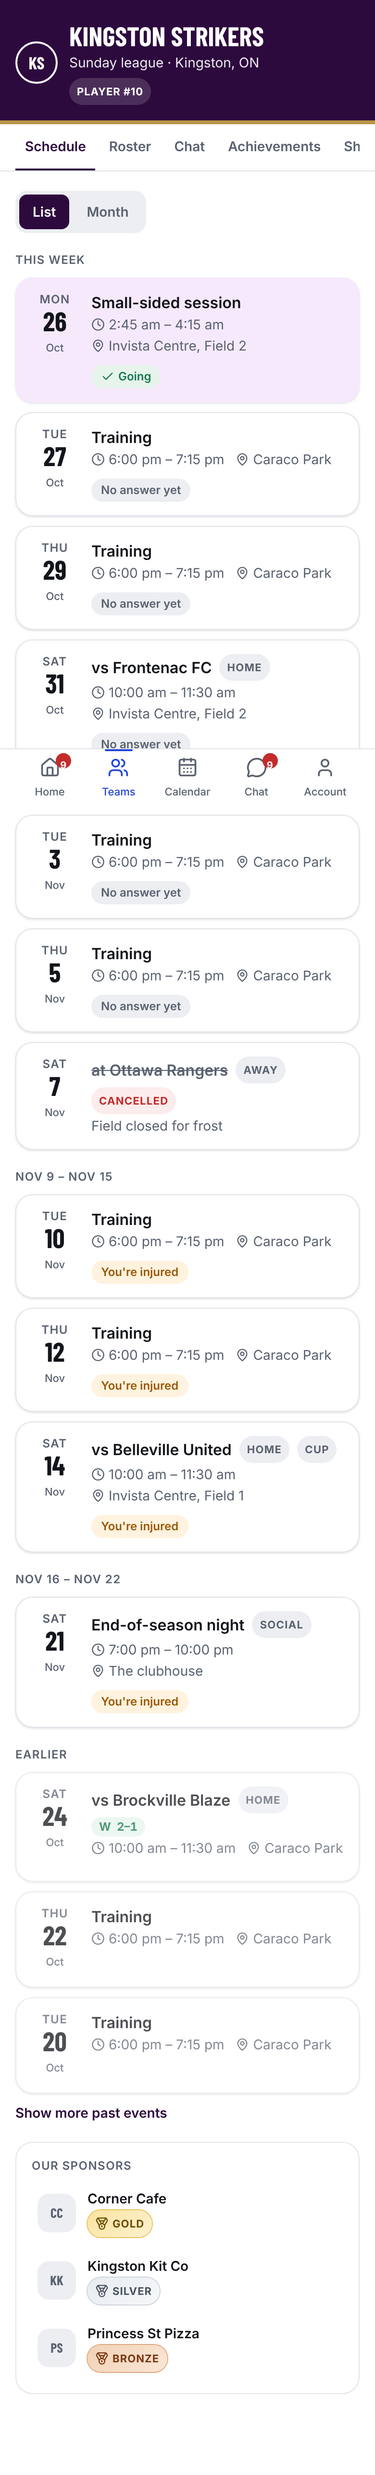
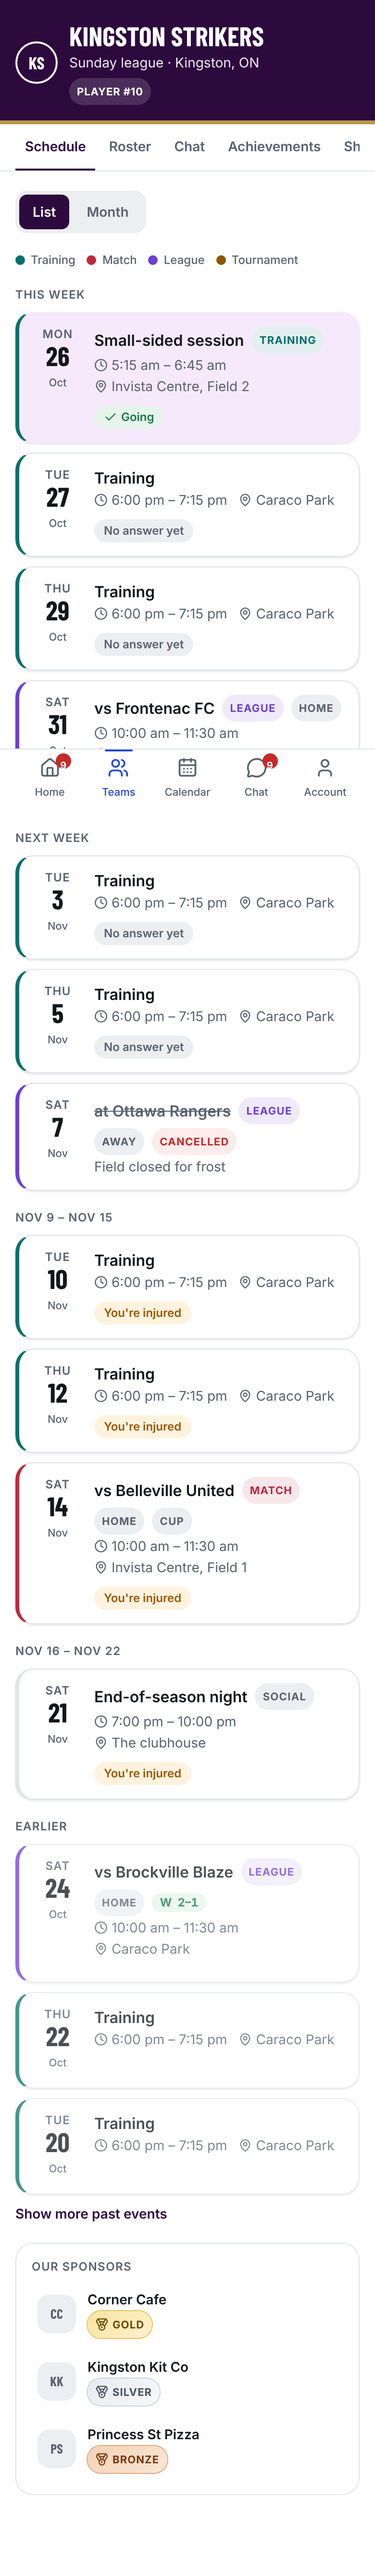
Colour events by kind: training, match, league, tournament (stripe, label, month dots, colour key)
Claude-Session: https://claude.ai/code/session_01ErGsB6M5fXQxgMj1xA9MPR

diff --git a/src/components/event-bits.tsx b/src/components/event-bits.tsx
@@ -29,15 +29,43 @@ export function StatusBadge({ status }: { status: TeamEvent["status"] | "live" |
   );
 }
 
-export function TypeTag({ e }: { e: Pick<TeamEvent, "type" | "homeAway" | "competition"> }) {
+/*
+ * Every event has a colour by kind, so a list is easy to scan: training, matches, league
+ * matches and tournaments (the tournament itself and its games). Socials and others stay neutral.
+ */
+export type EventKind = "training" | "match" | "league" | "tournament";
+type KindSource = Pick<TeamEvent, "type" | "competition"> & { tournamentId?: string | null };
+export function eventKind(e: KindSource): EventKind | null {
+  if (e.tournamentId || e.type === "tournament") return "tournament";
+  if (e.type === "match") return e.competition === "league" ? "league" : "match";
+  if (e.type === "training") return "training";
+  return null;
+}
+export const KIND_LABEL: Record<EventKind, string> = { training: "Training", match: "Match", league: "League", tournament: "Tournament" };
+// Whole class names, so Tailwind sees them.
+export const KIND_STRIPE: Record<EventKind, string> = { training: "border-l-ev-training", match: "border-l-ev-match", league: "border-l-ev-league", tournament: "border-l-ev-tournament" };
+export const KIND_CHIP: Record<EventKind, string> = {
+  training: "bg-ev-training-soft text-ev-training",
+  match: "bg-ev-match-soft text-ev-match",
+  league: "bg-ev-league-soft text-ev-league",
+  tournament: "bg-ev-tournament-soft text-ev-tournament",
+};
+export const KIND_DOT: Record<EventKind, string> = { training: "bg-ev-training", match: "bg-ev-match", league: "bg-ev-league", tournament: "bg-ev-tournament" };
+
+export function TypeTag({ e, title }: { e: KindSource & Pick<TeamEvent, "homeAway">; title?: string }) {
+  const k = eventKind(e);
+  // No "Training" chip on an event already called Training: the stripe shows the colour.
+  const kind = k && title?.trim().toLowerCase() === KIND_LABEL[k].toLowerCase() ? null : k;
   const labels: string[] = [];
   if (e.type === "match") labels.push(e.homeAway === "away" ? "Away" : e.homeAway === "neutral" ? "Neutral" : "Home");
-  if (e.competition && e.competition !== "league") labels.push(e.competition === "cup" ? "Cup" : "Friendly");
-  if (e.type === "tournament") labels.push("Tournament");
+  if (e.competition && e.competition !== "league" && kind !== "tournament") labels.push(e.competition === "cup" ? "Cup" : "Friendly");
   if (e.type === "social") labels.push("Social");
-  if (!labels.length) return null;
+  if (!labels.length && !kind) return null;
   return (
     <>
+      {kind && (
+        <span className={`rounded-pill px-2 py-0.5 text-[11px] font-bold tracking-[.06em] uppercase ${KIND_CHIP[kind]}`}>{KIND_LABEL[kind]}</span>
+      )}
       {labels.map((l) => (
         <span key={l} className="rounded-pill bg-sunken px-2 py-0.5 text-[11px] font-bold tracking-[.06em] text-muted uppercase">
           {l}
@@ -115,12 +143,13 @@ export function EventCard({ e, showTeam = false, tournament }: { e: EventWithMin
   const today = isToday(e.startAt, e.tz);
   const past = Date.parse(e.endAt) < Date.now();
   const mineLabel = e.mine ? (e.mine.response ? RSVP_LABEL[e.mine.response] : e.mine.unavailable ? "you're marked unavailable" : "no answer yet") : "";
+  const kind = eventKind(e);
   return (
     <Link
       href={`/t/${e.teamId}/e/${e.id}`}
       data-team={showTeam ? e.teamId : undefined}
-      aria-label={`${title}, ${d.dow} ${d.month} ${d.day}, ${formatTimeRange(e.startAt, e.endAt, e.tz)}${cancelled ? ", cancelled" : ""}${mineLabel ? ", " + mineLabel : ""}`}
-      className={`grid ${badge ? "grid-cols-[52px_minmax(0,1fr)_auto]" : "grid-cols-[52px_minmax(0,1fr)]"} gap-3 rounded-lg border p-3.5 shadow-card transition-colors hover:border-border-input focus-visible:outline-2 focus-visible:outline-offset-2 focus-visible:outline-focus ${
+      aria-label={`${title}${kind ? `, ${KIND_LABEL[kind]}` : ""}, ${d.dow} ${d.month} ${d.day}, ${formatTimeRange(e.startAt, e.endAt, e.tz)}${cancelled ? ", cancelled" : ""}${mineLabel ? ", " + mineLabel : ""}`}
+      className={`grid ${badge ? "grid-cols-[52px_minmax(0,1fr)_auto]" : "grid-cols-[52px_minmax(0,1fr)]"} gap-3 rounded-lg border border-l-4 p-3.5 shadow-card transition-colors ${kind ? KIND_STRIPE[kind] : ""} hover:border-border-input focus-visible:outline-2 focus-visible:outline-offset-2 focus-visible:outline-focus ${
         today && !cancelled ? "border-transparent bg-team-soft" : "border-border bg-bg"
       } ${past ? "opacity-75" : ""}`}
     >
@@ -134,7 +163,7 @@ export function EventCard({ e, showTeam = false, tournament }: { e: EventWithMin
           <h3 className={`min-w-0 text-base leading-[22px] font-semibold break-words ${cancelled ? "text-muted line-through" : ""}`}>
             {title}
           </h3>
-          <TypeTag e={e} />
+          <TypeTag e={e} title={title} />
           <StatusBadge status={e.status} />
           <ScoreBadge score={e.score} />
         </div>
@@ -206,6 +235,20 @@ export function Counts({ counts }: { counts: { going: number; maybe: number; not
       {items.map(([k, label, cls]) => (
         <li key={k} className={`rounded-pill px-3 py-1.5 text-sm font-semibold tabular ${cls}`}>
           {counts[k]} {label}
+        </li>
+      ))}
+    </ul>
+  );
+}
+
+/** What the colours mean, above a list or calendar. */
+export function KindLegend() {
+  return (
+    <ul aria-label="Event colours" className="flex flex-wrap gap-x-3 gap-y-1 text-xs text-muted">
+      {(Object.keys(KIND_LABEL) as EventKind[]).map((k) => (
+        <li key={k} className="inline-flex items-center gap-1.5">
+          <span aria-hidden className={`size-2.5 rounded-pill ${KIND_DOT[k]}`} />
+          {KIND_LABEL[k]}
         </li>
       ))}
     </ul>

diff --git a/replica/design/tokens.css b/replica/design/tokens.css
@@ -84,6 +84,14 @@
   --live: #C8261A;
   --on-live: #FFFFFF;
   --overlay: #0B0D11;
+  --ev-training: #08706B;
+  --ev-training-soft: #E4EFEF;
+  --ev-match: #C0283F;
+  --ev-match-soft: #F8E7EA;
+  --ev-league: #6D3FD6;
+  --ev-league-soft: #EFEAFA;
+  --ev-tournament: #8A5700;
+  --ev-tournament-soft: #F2EDE3;
   --team: var(--accent);
   --on-team: var(--on-accent);
   --team-ink: var(--accent);
@@ -118,6 +126,14 @@
     --live: #FF5A4F;
     --on-live: #1A0707;
     --overlay: #000000;
+    --ev-training: #4FD1C5;
+    --ev-training-soft: #183032;
+    --ev-match: #FF8A9A;
+    --ev-match-soft: #35242B;
+    --ev-league: #B49BFF;
+    --ev-league-soft: #29273B;
+    --ev-tournament: #F5C04A;
+    --ev-tournament-soft: #332D1E;
     --team: var(--accent);
     --on-team: var(--on-accent);
     --team-ink: var(--accent);
@@ -150,6 +166,14 @@
   --live: #FF5A4F;
   --on-live: #1A0707;
   --overlay: #000000;
+  --ev-training: #4FD1C5;
+  --ev-training-soft: #183032;
+  --ev-match: #FF8A9A;
+  --ev-match-soft: #35242B;
+  --ev-league: #B49BFF;
+  --ev-league-soft: #29273B;
+  --ev-tournament: #F5C04A;
+  --ev-tournament-soft: #332D1E;
   --team: var(--accent);
   --on-team: var(--on-accent);
   --team-ink: var(--accent);

diff --git a/src/styles/tokens.css b/src/styles/tokens.css
@@ -84,6 +84,14 @@
   --live: #C8261A;
   --on-live: #FFFFFF;
   --overlay: #0B0D11;
+  --ev-training: #08706B;
+  --ev-training-soft: #E4EFEF;
+  --ev-match: #C0283F;
+  --ev-match-soft: #F8E7EA;
+  --ev-league: #6D3FD6;
+  --ev-league-soft: #EFEAFA;
+  --ev-tournament: #8A5700;
+  --ev-tournament-soft: #F2EDE3;
   --team: var(--accent);
   --on-team: var(--on-accent);
   --team-ink: var(--accent);
@@ -118,6 +126,14 @@
     --live: #FF5A4F;
     --on-live: #1A0707;
     --overlay: #000000;
+    --ev-training: #4FD1C5;
+    --ev-training-soft: #183032;
+    --ev-match: #FF8A9A;
+    --ev-match-soft: #35242B;
+    --ev-league: #B49BFF;
+    --ev-league-soft: #29273B;
+    --ev-tournament: #F5C04A;
+    --ev-tournament-soft: #332D1E;
     --team: var(--accent);
     --on-team: var(--on-accent);
     --team-ink: var(--accent);
@@ -150,6 +166,14 @@
   --live: #FF5A4F;
   --on-live: #1A0707;
   --overlay: #000000;
+  --ev-training: #4FD1C5;
+  --ev-training-soft: #183032;
+  --ev-match: #FF8A9A;
+  --ev-match-soft: #35242B;
+  --ev-league: #B49BFF;
+  --ev-league-soft: #29273B;
+  --ev-tournament: #F5C04A;
+  --ev-tournament-soft: #332D1E;
   --team: var(--accent);
   --on-team: var(--on-accent);
   --team-ink: var(--accent);

diff --git a/src/components/month-view.tsx b/src/components/month-view.tsx
@@ -1,7 +1,7 @@
 import Link from "next/link";
 import type { EventWithMine } from "@/lib/data/types";
 import { DEFAULT_TZ, utcToZoned } from "@/lib/time";
-import { EventCard } from "./event-bits";
+import { EventCard, KIND_DOT, eventKind } from "./event-bits";
 
 /**
  * Month grid with a dot per event; days with events link to the list below the grid.
@@ -51,7 +51,7 @@ export function MonthView({ events, teamId, month }: { events: EventWithMine[]; 
                     <span className={`tabular text-sm ${isToday ? "font-bold" : ""}`}>{day}</span>
                     <span aria-hidden className="flex h-1.5 justify-center gap-0.5">
                       {evs.slice(0, 3).map((e) => (
-                        <span key={e.id} className={`size-1.5 rounded-pill ${e.status === "cancelled" ? "bg-border-input" : "bg-team-ink"}`} />
+                        <span key={e.id} className={`size-1.5 rounded-pill ${e.status === "cancelled" ? "bg-border-input" : (() => { const k = eventKind(e); return k ? KIND_DOT[k] : "bg-team-ink"; })()}`} />
                       ))}
                     </span>
                   </>

diff --git a/src/app/(app)/t/[teamId]/schedule/page.tsx b/src/app/(app)/t/[teamId]/schedule/page.tsx
@@ -3,7 +3,7 @@ import Link from "next/link";
 import { CalendarPlus, Plus } from "lucide-react";
 import { getTeam, listEvents, listPastEvents, listTeamSponsors, myPerms } from "@/lib/data";
 import { SponsorStrip } from "@/components/sponsor-badge";
-import { EventCard, ScheduleList } from "@/components/event-bits";
+import { EventCard, KindLegend, ScheduleList } from "@/components/event-bits";
 import { tournamentBadges } from "@/lib/tournaments/service";
 import { Banner, ButtonLink, EmptyState } from "@/components/ui";
 import { MonthView } from "@/components/month-view";
@@ -65,10 +65,11 @@ export default async function SchedulePage({
             )
           }
         />
-      ) : view === "list" ? (
-        <ScheduleList events={events} tournaments={tBadges} />
       ) : (
-        <MonthView events={events} teamId={teamId} />
+        <>
+          <KindLegend />
+          {view === "list" ? <ScheduleList events={events} tournaments={tBadges} /> : <MonthView events={events} teamId={teamId} />}
+        </>
       )}
 
       {view === "list" && past.length > 0 && (

diff --git a/src/app/(app)/calendar/page.tsx b/src/app/(app)/calendar/page.tsx
@@ -2,7 +2,7 @@ import type { Metadata } from "next";
 import Link from "next/link";
 import { CalendarDays } from "lucide-react";
 import { listMyTeams, listUpcomingForMe } from "@/lib/data";
-import { ScheduleList } from "@/components/event-bits";
+import { KindLegend, ScheduleList } from "@/components/event-bits";
 import { tournamentBadges } from "@/lib/tournaments/service";
 import { EmptyState, PageHeader } from "@/components/ui";
 
@@ -39,7 +39,10 @@ export default async function CalendarPage({ searchParams }: { searchParams: Pro
         </nav>
       )}
       {filtered.length ? (
-        <ScheduleList events={filtered} showTeam={teams.length > 1} tournaments={tBadges} />
+        <>
+          <KindLegend />
+          <ScheduleList events={filtered} showTeam={teams.length > 1} tournaments={tBadges} />
+        </>
       ) : (
         <EmptyState icon={<CalendarDays />} title="Nothing coming up" hint="Games, trainings and events from all your teams show up here." />
       )}

diff --git a/replica/design/tailwind-theme.css b/replica/design/tailwind-theme.css
@@ -30,6 +30,14 @@
   --color-live: var(--live);
   --color-on-live: var(--on-live);
   --color-overlay: var(--overlay);
+  --color-ev-training: var(--ev-training);
+  --color-ev-training-soft: var(--ev-training-soft);
+  --color-ev-match: var(--ev-match);
+  --color-ev-match-soft: var(--ev-match-soft);
+  --color-ev-league: var(--ev-league);
+  --color-ev-league-soft: var(--ev-league-soft);
+  --color-ev-tournament: var(--ev-tournament);
+  --color-ev-tournament-soft: var(--ev-tournament-soft);
   --color-team: var(--team);
   --color-on-team: var(--on-team);
   --color-team-ink: var(--team-ink);

diff --git a/src/styles/tailwind-theme.css b/src/styles/tailwind-theme.css
@@ -30,6 +30,14 @@
   --color-live: var(--live);
   --color-on-live: var(--on-live);
   --color-overlay: var(--overlay);
+  --color-ev-training: var(--ev-training);
+  --color-ev-training-soft: var(--ev-training-soft);
+  --color-ev-match: var(--ev-match);
+  --color-ev-match-soft: var(--ev-match-soft);
+  --color-ev-league: var(--ev-league);
+  --color-ev-league-soft: var(--ev-league-soft);
+  --color-ev-tournament: var(--ev-tournament);
+  --color-ev-tournament-soft: var(--ev-tournament-soft);
   --color-team: var(--team);
   --color-on-team: var(--on-team);
   --color-team-ink: var(--team-ink);
